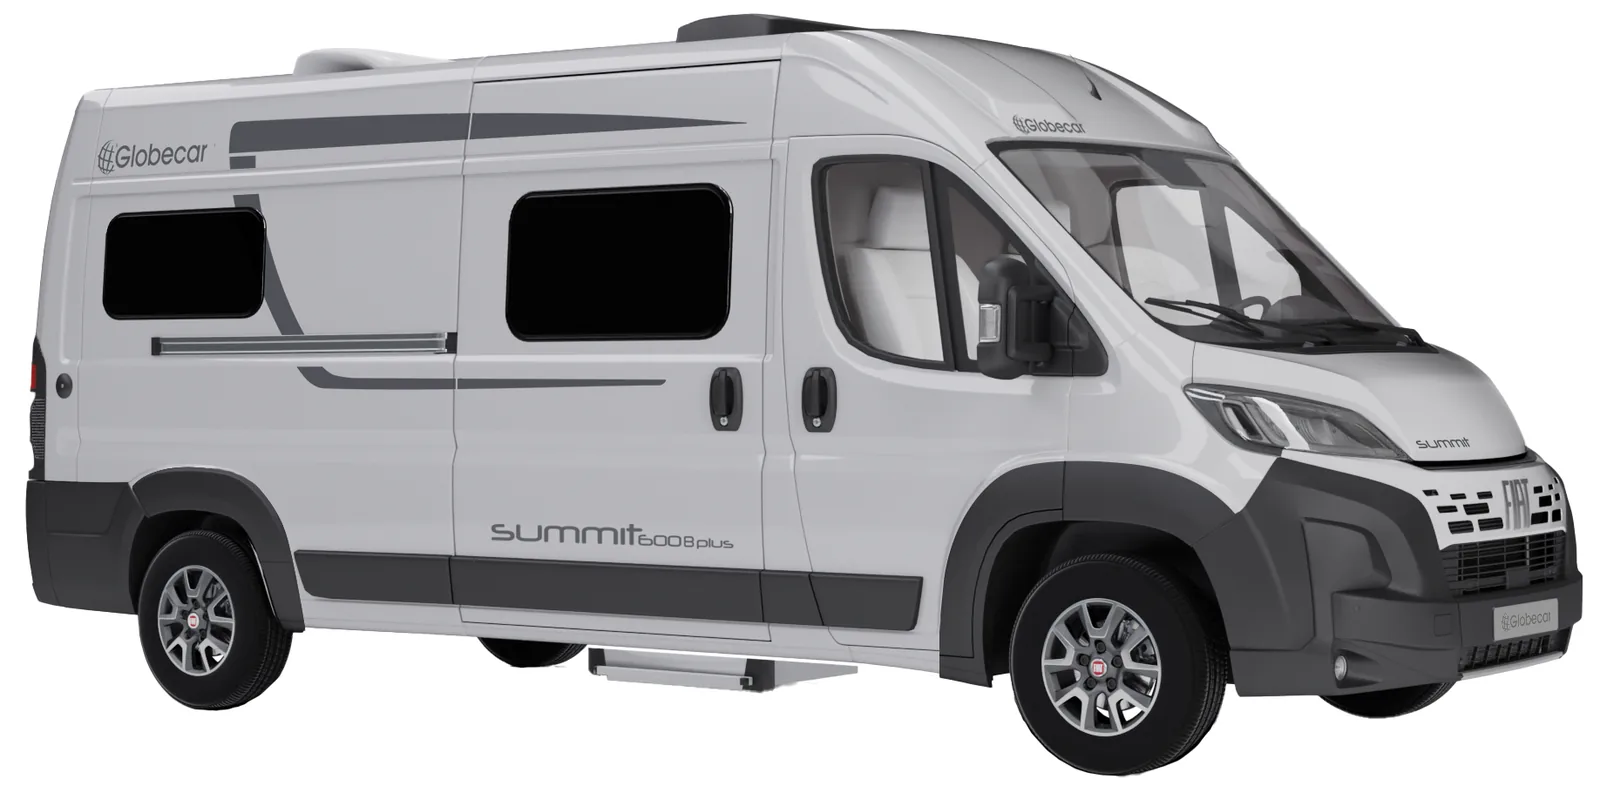
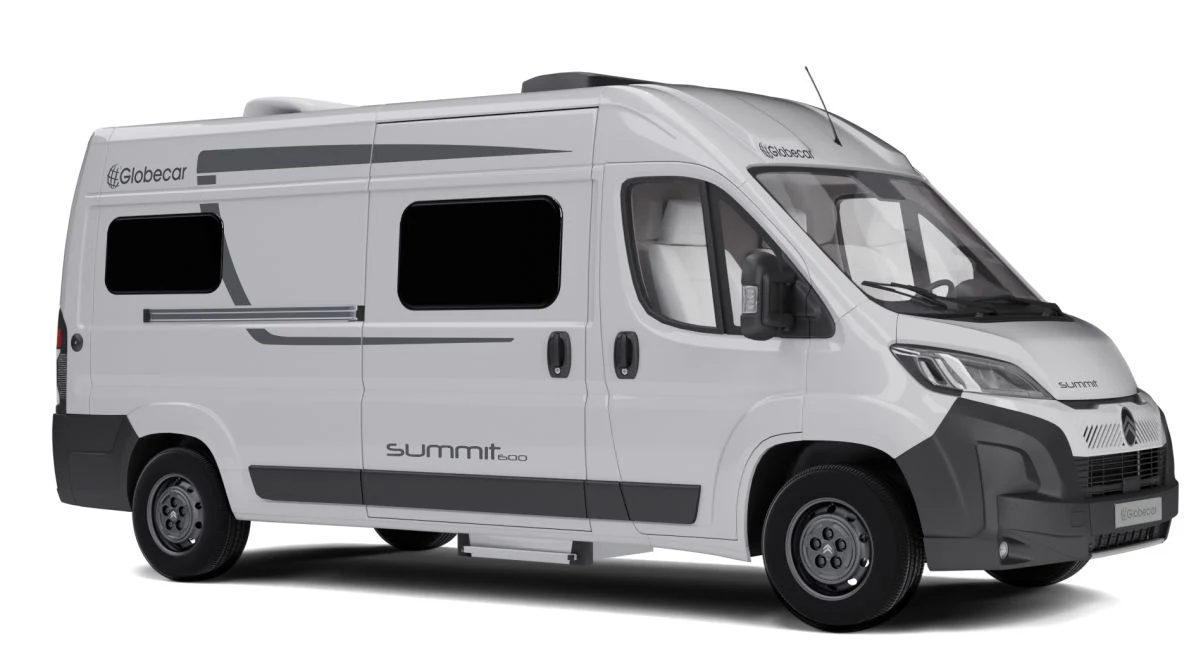
Globecar Summit 600 Plus: sustituye foto exterior (era render del Summit 600 B Plus, variante errónea) por render de prensa del fabricante del Summit 600 (misma generación y carrocería; el Plus es equipamiento H-Line, no otra carrocería)

diff --git a/docs/fichas-autocaravanas/media-creditos-lote4.md b/docs/fichas-autocaravanas/media-creditos-lote4.md
@@ -105,7 +105,7 @@ Pausa temporal 19/10/2026: 50 fichas de autocaravanas. Fotos con modelo+marca ex
 - `public/media/giottiline-siena-330-2026-precio-ficha-tecnica-detalle.webp` — no oficial — foto de prensa: salón delantero con cama basculante del Siena 330 — fuente: https://camperlife.it/sites/default/files/inline-images/DSC_6052.jpg
 
 ## globecar-summit-600-plus-2026-precio-ficha-tecnica
-- `public/media/globecar-summit-600-plus-2026-precio-ficha-tecnica-oficial.webp` — no oficial — render oficial del fabricante (rotulado 'Summit 600 B Plus') usado por el concesionario; compuesto sobre fondo blanco — fuente: https://caravan-zellerer.de/wp-content/uploads/2025/06/globecar_summit-600-bplus_fiat_heavy__549.png
+- `public/media/globecar-summit-600-plus-2026-precio-ficha-tecnica-oficial.webp` — no oficial — render de prensa del fabricante (Summit 600, misma generación y carrocería que el Summit 600 Plus — el Plus es nivel de equipamiento H-Line, no otra carrocería; el fabricante no publica render rotulado 'Summit 600 Plus'); rotula 'summit 600' — fuente imagen: https://www.womo-liste.de/images/media/15/247/600_26_01.jpg — ficha: https://www.womo-liste.de/womo.php?page=m742281685 — sustituye al render anterior, que rotulaba 'Summit 600 B Plus' (variante errónea, 2026-10-19)
 - `public/media/globecar-summit-600-plus-2026-precio-ficha-tecnica-interior1.webp` — no oficial — foto de prensa del Summit 600: salón y cocina — fuente: https://www.womo-liste.de/images/media/15/247/s600_22_01.jpg
 - `public/media/globecar-summit-600-plus-2026-precio-ficha-tecnica-interior2.webp` — no oficial — foto de prensa del Summit 600: comedor y cocina — fuente: https://www.womo-liste.de/images/media/15/247/s600_21_03.jpg
 - `public/media/globecar-summit-600-plus-2026-precio-ficha-tecnica-detalle.webp` — no oficial — foto de prensa del Summit 600: salón con frigorífico abierto — fuente: https://www.womo-liste.de/images/media/15/247/s600_22_02.jpg
